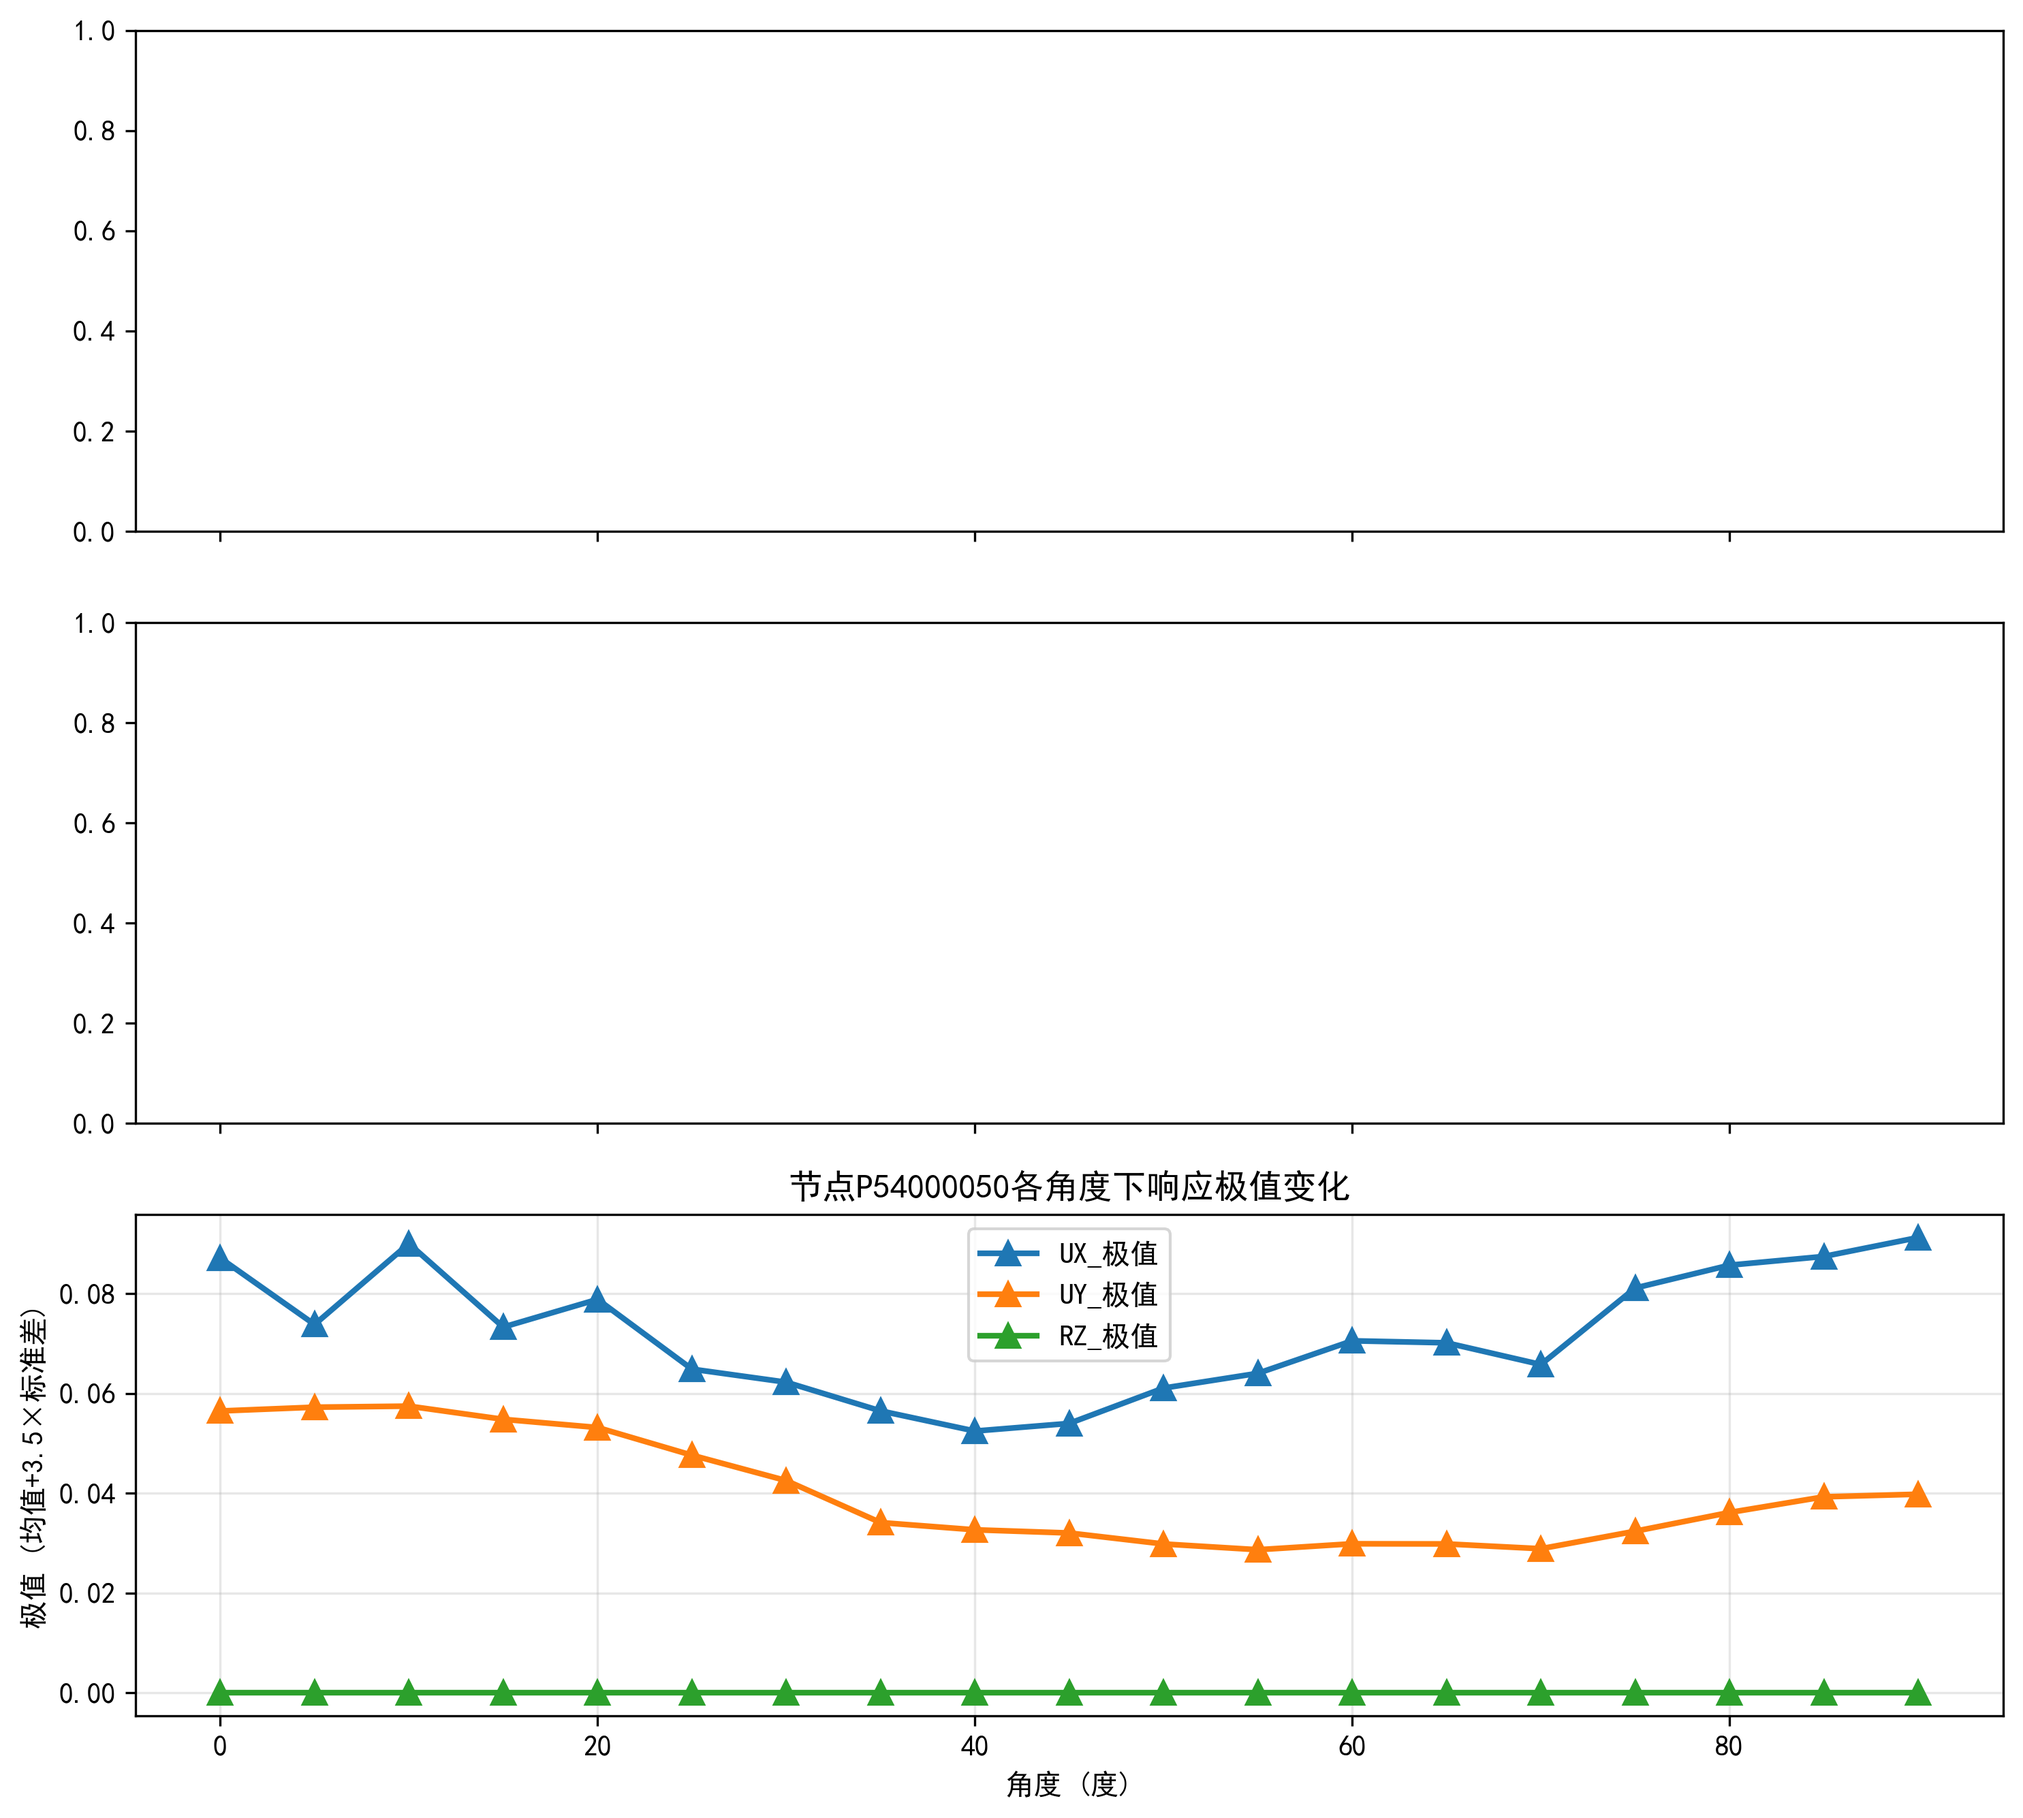
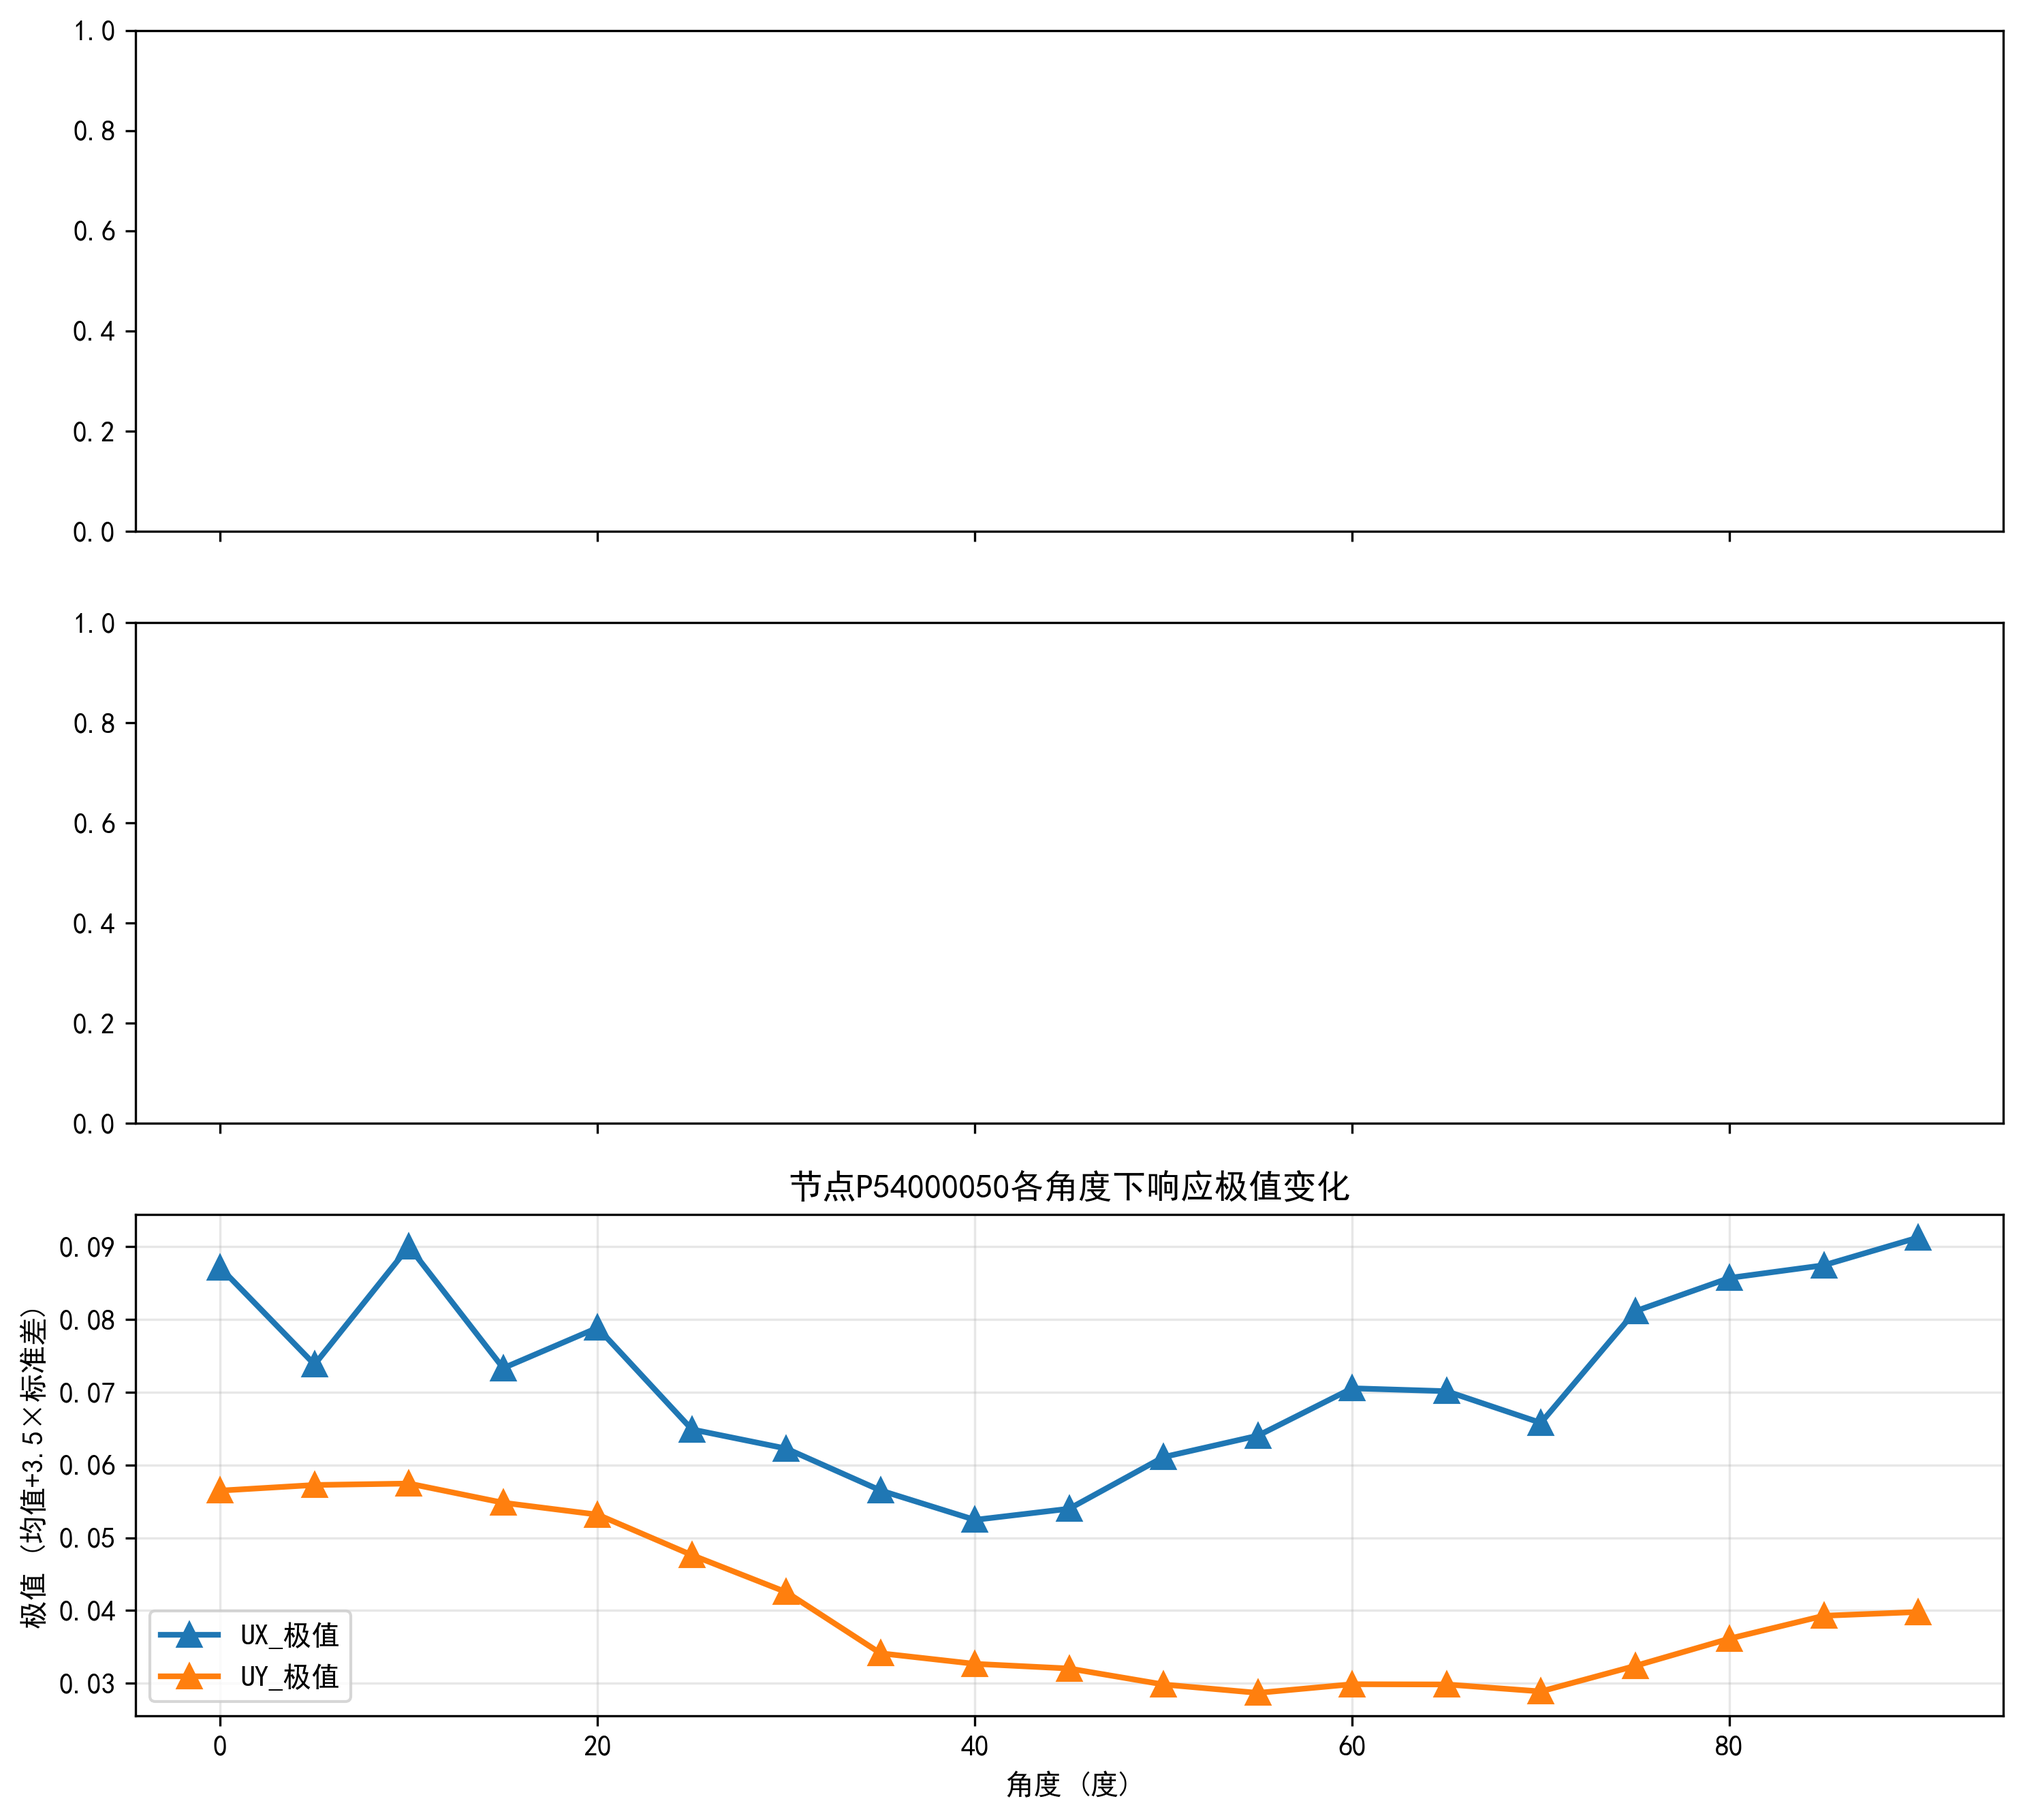
1

diff --git a/PostProcessing.py b/PostProcessing.py
@@ -16,7 +16,7 @@ from utils.io_utils.utils import *
 building_names = ["1-1", "2-1", "3-1"]  # 模型名称
 analysis_type = "Acceleration"  # 分析类型
 path_Now = os.path.dirname(os.path.abspath(__file__))
-target_columns = ['UX', 'UY', 'RZ']  # 目标分析列
+target_columns = ['UX', 'UY']  # 目标分析列
 
 for building_name in building_names:
     output_folder = os.path.join(os.getcwd(), "data", "output", "Timehistory_modal", building_name, analysis_type)
@@ -92,19 +92,24 @@ for building_name in building_names:
         results_data.append(file_result)
             
     # 打印结果预览
-    results_df = pd.DataFrame(results_data)
+    results_df = pd.DataFrame(results_data)  # 转换为DataFrame
     print("\n结果预览:")
     print(results_df.head())
-
-    # 找到results_df中的最大值
-    max_extreme = results_df[[col for col in results_df.columns if 'extreme' in col]].max().max()
-    print(f"\n最大极值: {max_extreme} m")
 
     # 找到range_2D_extreme的最大值
     max_range_2D_extreme = results_df[[col for col in results_df.columns if 'range_2D_extreme' in col]].max().max()
     print(f"\n最大2D范围极值: {max_range_2D_extreme} m")
-
-    # 结果处理，获得中心点极值和角点极值
+    
+    # 给出最大值的列名和对应的角度
+    max_range_2D_extreme_cols = [col for col in results_df.columns if 'range_2D_extreme' in col]
+    max_extreme_col_name = results_df[max_range_2D_extreme_cols].max().idxmax()
+    
+    # 提取节点编号，提取UX和UY的节点编号
+    point_number = max_extreme_col_name.split('_')[0][1:]  # 提取P后面的数字
+    print(f"最大2D范围极值对应的节点: P{point_number}")
+    results_df2 = results_df[[col for col in results_df.columns if f'P{point_number}_' in col]]
+    # 将results_df2转化为数组，保存到指定sheet的指定位置
+    # results_df2 = results_df2.values
 
     # 创建可视化图表
     if results_data:
@@ -173,11 +178,13 @@ for building_name in building_names:
         # 指定要保存的sheet名称
         sheet_name = f"{building_name}_{analysis_type}"
         if os.path.exists(excel_path): # 如果文件已存在，则追加数据
-            with pd.ExcelWriter(excel_path, mode='a', engine='openpyxl', if_sheet_exists='replace') as writer:
+            with pd.ExcelWriter(excel_path, mode='a', engine='openpyxl', if_sheet_exists='overlay') as writer:
                 results_df.to_excel(writer, index=False, sheet_name=sheet_name)
+                results_df2.to_excel(writer, index=False, sheet_name=sheet_name, startrow=len(results_df)+2)
         else:  # 如果文件不存在，则创建新文件
             with pd.ExcelWriter(excel_path, mode='w', engine='openpyxl') as writer:
                 results_df.to_excel(writer, index=False, sheet_name=sheet_name)
+                results_df2.to_excel(writer, index=False, sheet_name=sheet_name, startrow=len(results_df)+2)
         print(f"结果已保存: {excel_path}")
 
         # 打印统计信息

diff --git a/code/utils/io_utils/sap_model.py b/code/utils/io_utils/sap_model.py
@@ -330,7 +330,7 @@ class SAP2000Model:
 
             # 在节点上施加荷载
             x_force = 1000  # X方向风荷载
-            ret = self.model.PointObj.SetLoadForce(point_name, LoadPatternName, [0, x_force, 0, 0, 0, 0], True, "Global", 0)
+            ret = self.model.PointObj.SetLoadForce(point_name, LoadPatternName, [x_force, 0, 0, 0, 0, 0], True, "Global", 0)
             print(f"在隔板 {constraint_name} 中心点 {point_name} 添加风荷载X方向风荷载时程函数: {Wind_func_name}")
 
             # 将荷载参数添加到列表
@@ -354,7 +354,7 @@ class SAP2000Model:
             ret = self.model.LoadPatterns.Add(LoadPatternName, 6, 0, True)
             # 在节点上施加荷载
             y_force = 1000  # Y方向风荷载
-            ret = self.model.PointObj.SetLoadForce(point_name, LoadPatternName, [-1*y_force, 0, 0, 0, 0, 0], True, "Global", 0)
+            ret = self.model.PointObj.SetLoadForce(point_name, LoadPatternName, [0, y_force, 0, 0, 0, 0], True, "Global", 0)
             print(f"在隔板 {constraint_name} 中心点 {point_name} 添加风荷载Y方向风荷载时程函数: {Wind_func_name}")
 
             # 将荷载参数添加到列表
